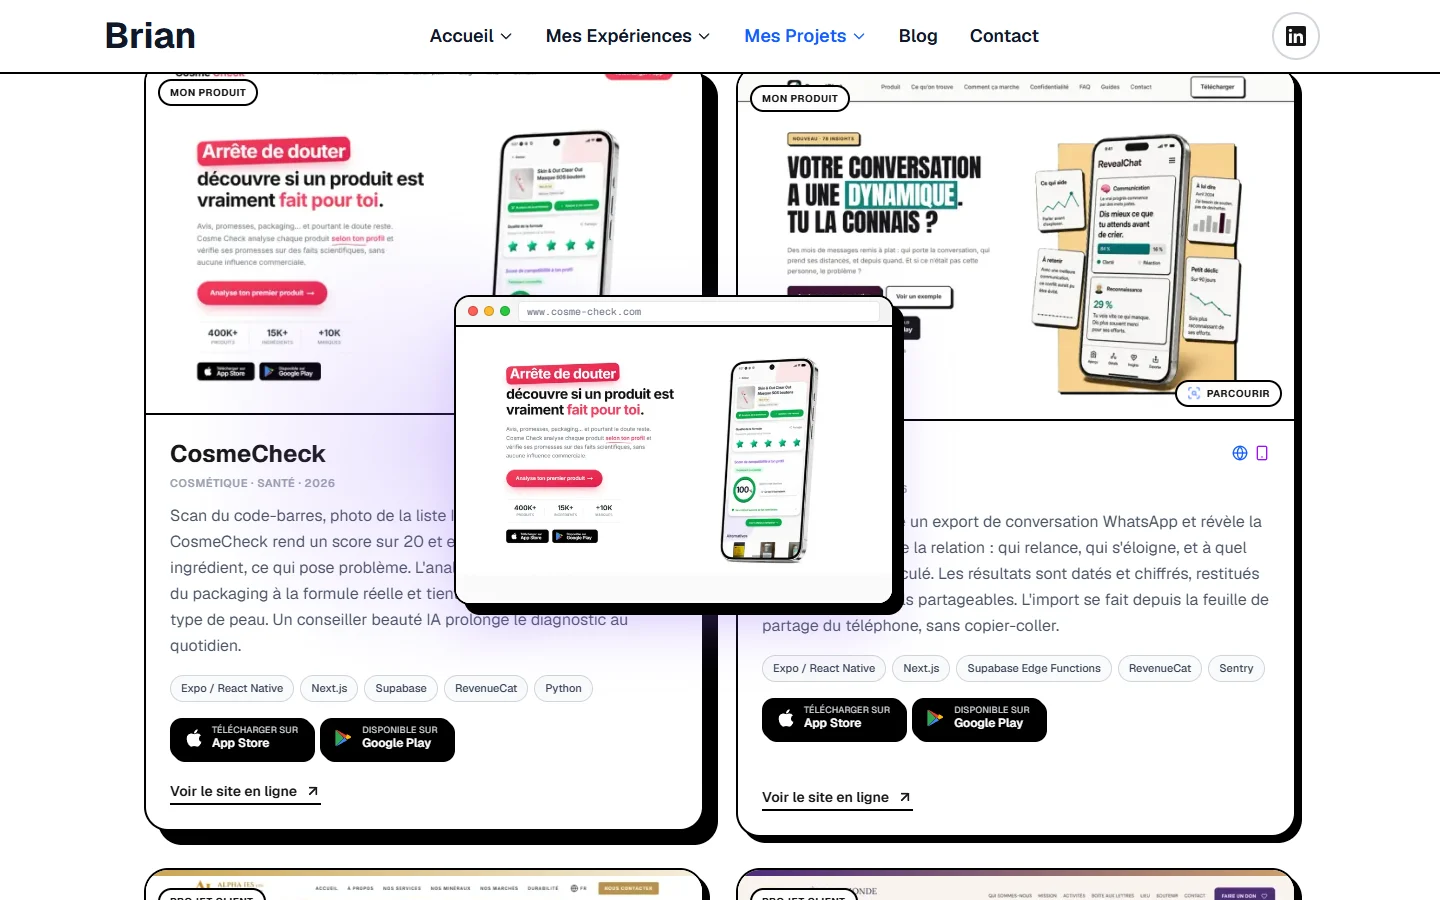
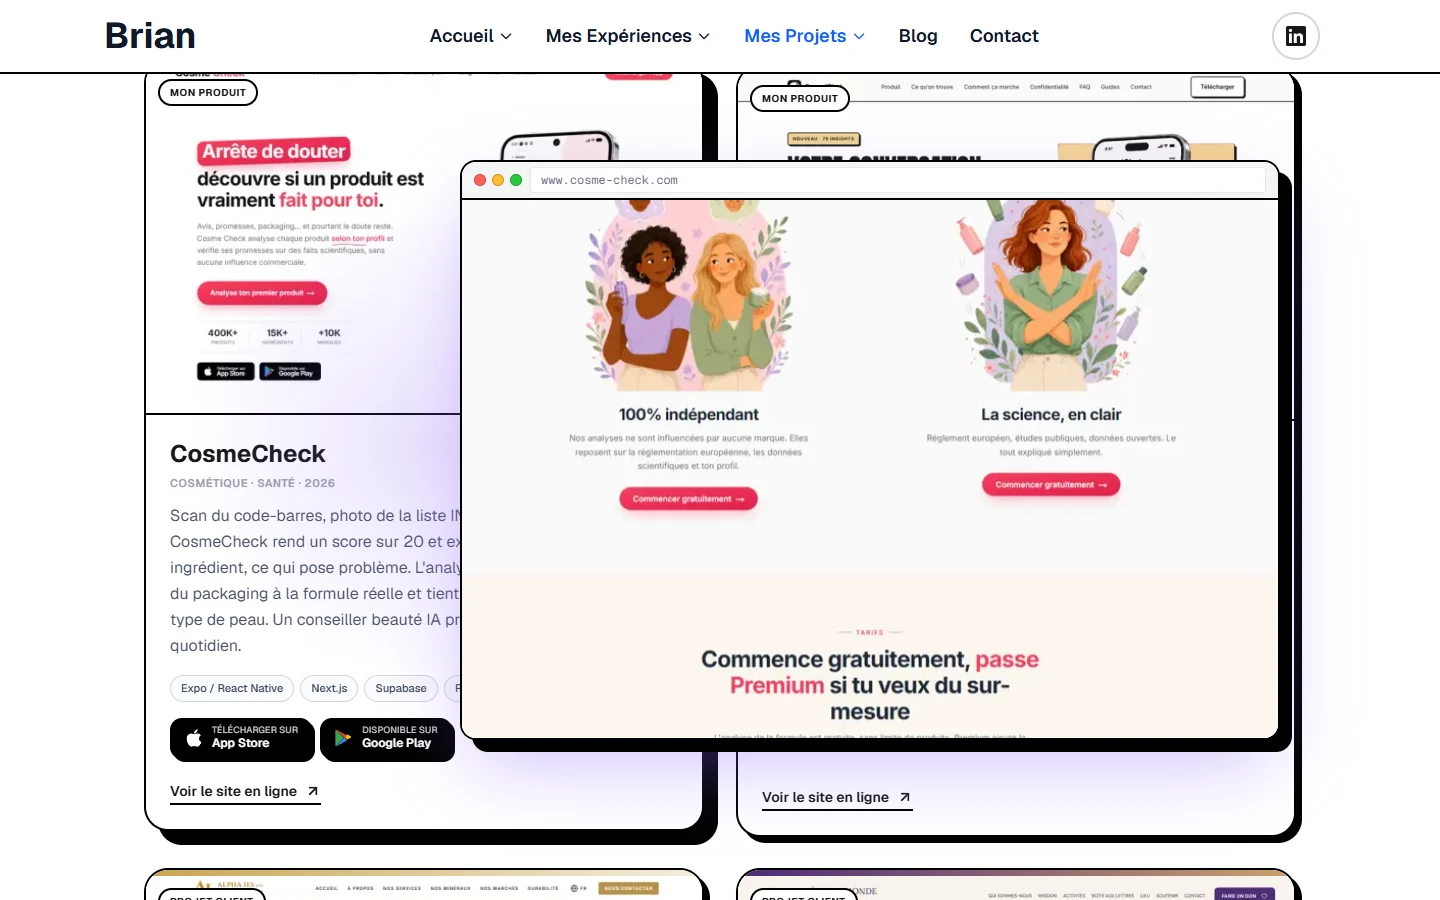
loupe : départ immédiat, freinage à l'arrivée, panneau agrandi
Au survol d'un projet, la capture partait lentement après une pause d'une
demi-seconde. Elle démarre maintenant dès l'ouverture et couvre le haut du
site en un instant, puis ralentit longuement en approchant du bas — une
course qui accélère au départ et freine à l'arrivée.

- courbe portée par les étapes du keyframe : élan, puis décélération,
  courte pause en bas, remontée plus discrète
- cycle ramené de 22 s à 13 s
- panneau porté de 440x310 à 820x580, pour que l'aperçu se lise
- la capture est préchargée dès l'entrée du curseur et le délai
  d'ouverture tombe de 180 ms à 70 ms

Changed region(s): [[0.3125, 0.1556, 0.9062, 0.8711], [0.3125, 0.7467, 0.4062, 0.7778]]

diff --git a/components/SitePeek.tsx b/components/SitePeek.tsx
@@ -4,9 +4,10 @@ import { useEffect, useRef, useState } from 'react';
 import { createPortal } from 'react-dom';
 import { getPointer } from '@/lib/pointer';
 
-const WIDTH = 440;
-const HEIGHT = 310;
-const CHROME_HEIGHT = 30;
+// Panneau volontairement large : l'apercu doit se lire, pas se deviner.
+const WIDTH = 820;
+const HEIGHT = 580;
+const CHROME_HEIGHT = 38;
 const VIEW_HEIGHT = HEIGHT - CHROME_HEIGHT;
 
 type Props = {
@@ -40,8 +41,8 @@ export default function SitePeek({ src, url, active, accent = '#3B82F6' }: Props
 
     const place = (clientX: number, clientY: number) => {
       const pad = 20;
-      let x = clientX + 30;
-      if (x + WIDTH + pad > window.innerWidth) x = clientX - WIDTH - 30;
+      let x = clientX + 36;
+      if (x + WIDTH + pad > window.innerWidth) x = clientX - WIDTH - 36;
       x = Math.max(pad, Math.min(x, window.innerWidth - WIDTH - pad));
 
       const y = Math.max(
@@ -98,7 +99,7 @@ export default function SitePeek({ src, url, active, accent = '#3B82F6' }: Props
         style={{
           width: WIDTH,
           height: HEIGHT,
-          boxShadow: `10px 10px 0px 0px rgba(0,0,0,1), 0 24px 60px -12px ${accent}66`,
+          boxShadow: `12px 12px 0px 0px rgba(0,0,0,1), 0 30px 80px -14px ${accent}77`,
         }}
       >
         {/* Barre de navigateur factice */}
@@ -107,11 +108,11 @@ export default function SitePeek({ src, url, active, accent = '#3B82F6' }: Props
           style={{ height: CHROME_HEIGHT }}
         >
           <span className="flex gap-1.5">
-            <span className="w-2.5 h-2.5 rounded-full bg-[#ff5f57] border border-black/20" />
-            <span className="w-2.5 h-2.5 rounded-full bg-[#febc2e] border border-black/20" />
-            <span className="w-2.5 h-2.5 rounded-full bg-[#28c840] border border-black/20" />
+            <span className="w-3 h-3 rounded-full bg-[#ff5f57] border border-black/20" />
+            <span className="w-3 h-3 rounded-full bg-[#febc2e] border border-black/20" />
+            <span className="w-3 h-3 rounded-full bg-[#28c840] border border-black/20" />
           </span>
-          <span className="flex-1 truncate text-[10px] font-mono text-gray-500 bg-white rounded px-2 py-0.5 border border-gray-200">
+          <span className="flex-1 truncate text-xs font-mono text-gray-500 bg-white rounded px-2.5 py-1 border border-gray-200">
             {host}
           </span>
         </div>
@@ -124,12 +125,16 @@ export default function SitePeek({ src, url, active, accent = '#3B82F6' }: Props
           <img
             src={src}
             alt=""
+            // Une capture deja en cache est complete avant meme l'evenement de chargement
+            ref={(el) => {
+              if (el?.complete) setLoaded(true);
+            }}
             onLoad={() => setLoaded(true)}
             className={`block w-full h-auto ${loaded ? 'peek-scroller' : ''}`}
             style={
               {
                 '--peek-height': `${VIEW_HEIGHT}px`,
-                '--peek-duration': '22s',
+                '--peek-duration': '13s',
               } as React.CSSProperties
             }
           />

diff --git a/app/globals.css b/app/globals.css
@@ -286,14 +286,33 @@ body {
    Loupe de prévisualisation — défilement automatique du site
    ═══════════════════════════════════════════════════════════ */
 
+/*
+ * Descente immediate : la capture part vite des la premiere image, puis
+ * freine longuement en approchant du bas, comme une course qui ralentit a
+ * l'arrivee. Courte pause en bas, puis remontee plus discrete.
+ * Les fonctions de temps sont portees par les etapes, pas par la regle.
+ */
 @keyframes peek-scroll {
-  0%, 6%    { transform: translate3d(0, 0, 0); }
-  94%, 100% { transform: translate3d(0, calc(-100% + var(--peek-height)), 0); }
+  0% {
+    transform: translate3d(0, 0, 0);
+    animation-timing-function: cubic-bezier(0.08, 0.82, 0.2, 1);
+  }
+  62% {
+    transform: translate3d(0, calc(-100% + var(--peek-height)), 0);
+    animation-timing-function: linear;
+  }
+  72% {
+    transform: translate3d(0, calc(-100% + var(--peek-height)), 0);
+    animation-timing-function: cubic-bezier(0.4, 0, 0.2, 1);
+  }
+  100% {
+    transform: translate3d(0, 0, 0);
+  }
 }
 
 .peek-scroller {
   will-change: transform;
-  animation: peek-scroll var(--peek-duration, 20s) ease-in-out infinite alternate;
+  animation: peek-scroll var(--peek-duration, 13s) linear infinite;
 }
 
 @keyframes peek-in {
@@ -385,7 +404,7 @@ body {
    ═══════════════════════════════════════════════════════════ */
 
 .scroll-frame .scroll-inner {
-  animation: peek-scroll var(--peek-duration, 26s) ease-in-out infinite alternate;
+  animation: peek-scroll var(--peek-duration, 18s) linear infinite;
   animation-play-state: paused;
 }
 

diff --git a/components/ProjectCard.tsx b/components/ProjectCard.tsx
@@ -18,6 +18,7 @@ export default function ProjectCard({
 }) {
   const cardRef = useRef<HTMLElement>(null);
   const peekTimer = useRef<ReturnType<typeof setTimeout> | null>(null);
+  const preloaded = useRef(false);
   const [peeking, setPeeking] = useState(false);
 
   const handleMove = (e: React.MouseEvent<HTMLElement>) => {
@@ -34,7 +35,13 @@ export default function ProjectCard({
 
   const handleEnter = () => {
     cardRef.current?.style.setProperty('--tilt-lift', '-6px');
-    peekTimer.current = setTimeout(() => setPeeking(true), 180);
+    // La capture est mise en cache tout de suite : la loupe defile des son ouverture
+    if (!preloaded.current) {
+      preloaded.current = true;
+      const img = new window.Image();
+      img.src = project.preview;
+    }
+    peekTimer.current = setTimeout(() => setPeeking(true), 70);
   };
 
   const handleLeave = () => {
